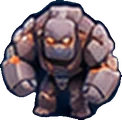
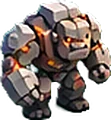
v0.8.1: new Ironhide front/back/side art from sheet 4, drawn from painted views with stomp motion
Claude-Session: https://claude.ai/code/session_01NpmJ8wUJMAAdQtqoHi3t6R

diff --git a/src/client/unitSprites.ts b/src/client/unitSprites.ts
@@ -54,7 +54,7 @@ export const UNIT_SPRITES: Record<string, Partial<Record<View, string>>> = {
 
 /** Which way each unit's side view faces in the source art (1 = right, -1 = left). */
 export const SIDE_FACES: Record<string, 1 | -1> = {
-  ironhide: -1, colossus: -1, skyrider: 1, brute: -1, warden: 1, ranger: 1, twinrangers: 1,
+  ironhide: 1, colossus: -1, skyrider: 1, brute: -1, warden: 1, ranger: 1, twinrangers: 1,
   sparkcaster: 1, bombardier: -1, swarmlings: 1,
 };
 

diff --git a/src/client/render.ts b/src/client/render.ts
@@ -843,7 +843,7 @@ function drawEntity(e: Entity, x: number, y: number, ui: UiState, now: number, t
 }
 
 /** Units drawn from their single painted views instead of the animation sheet. */
-const STATIC_ART = new Set(["bombardier"]);
+const STATIC_ART = new Set(["bombardier", "ironhide"]);
 
 const p_walk = (t: number, id: number) => Math.sin(t * 10 + id * 1.7);
 
